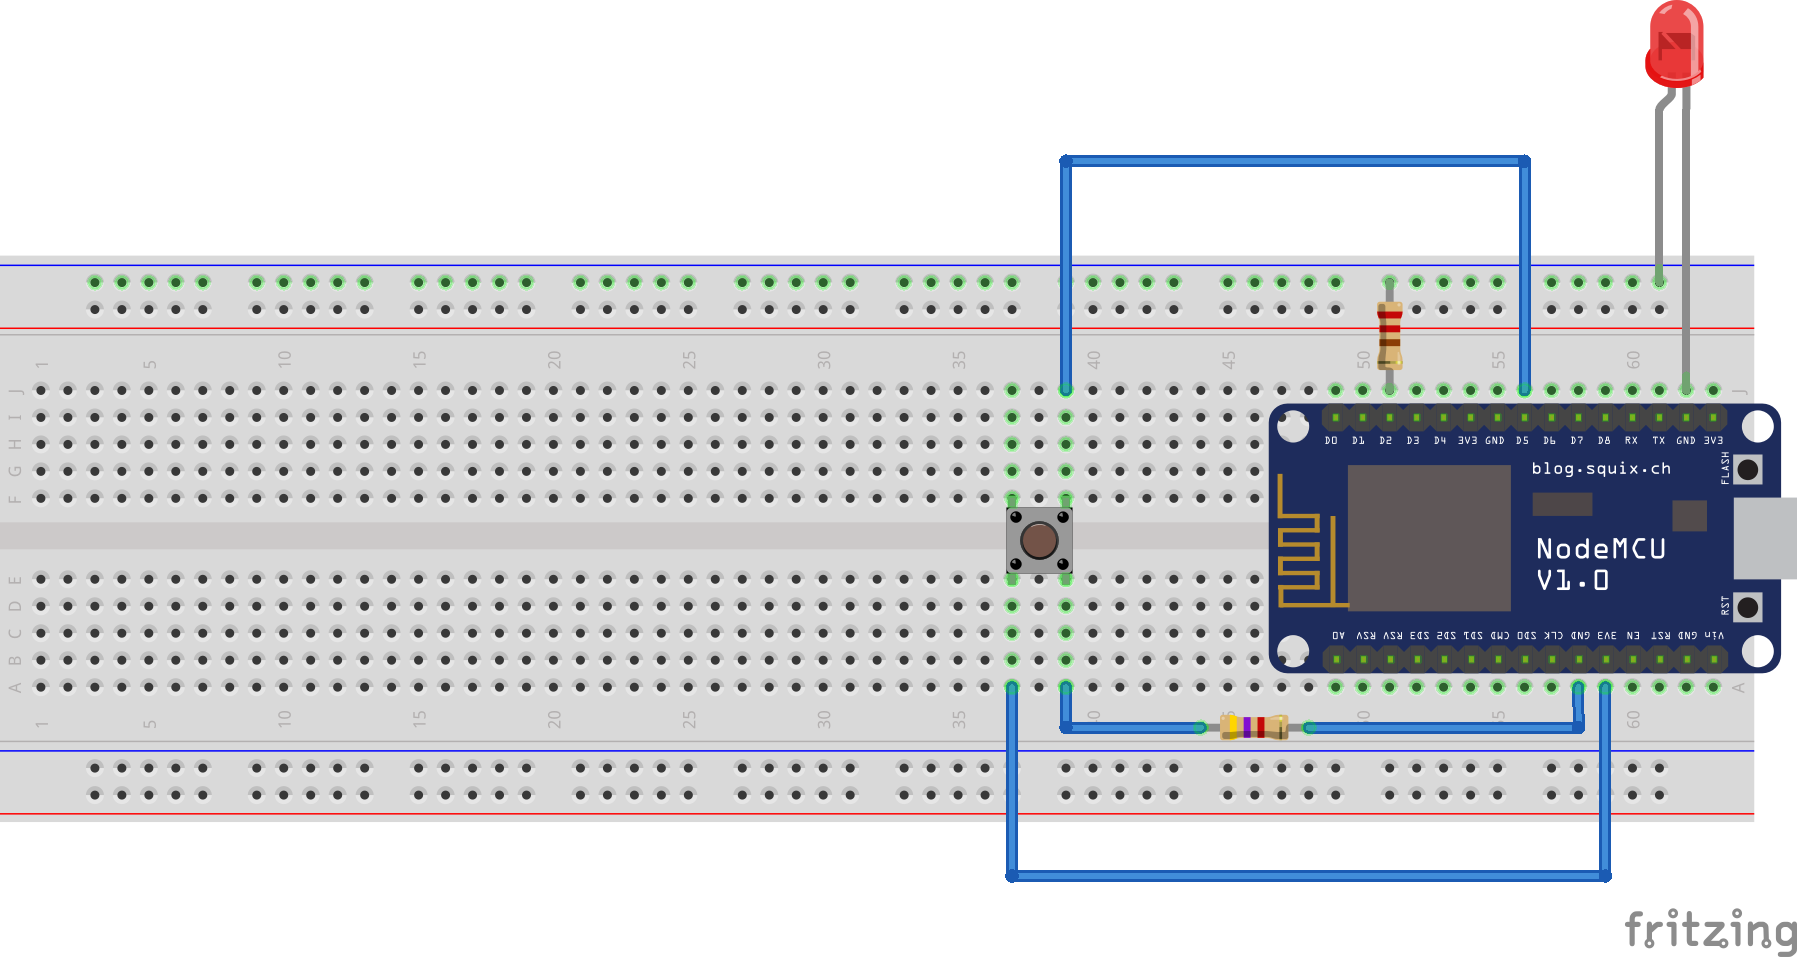
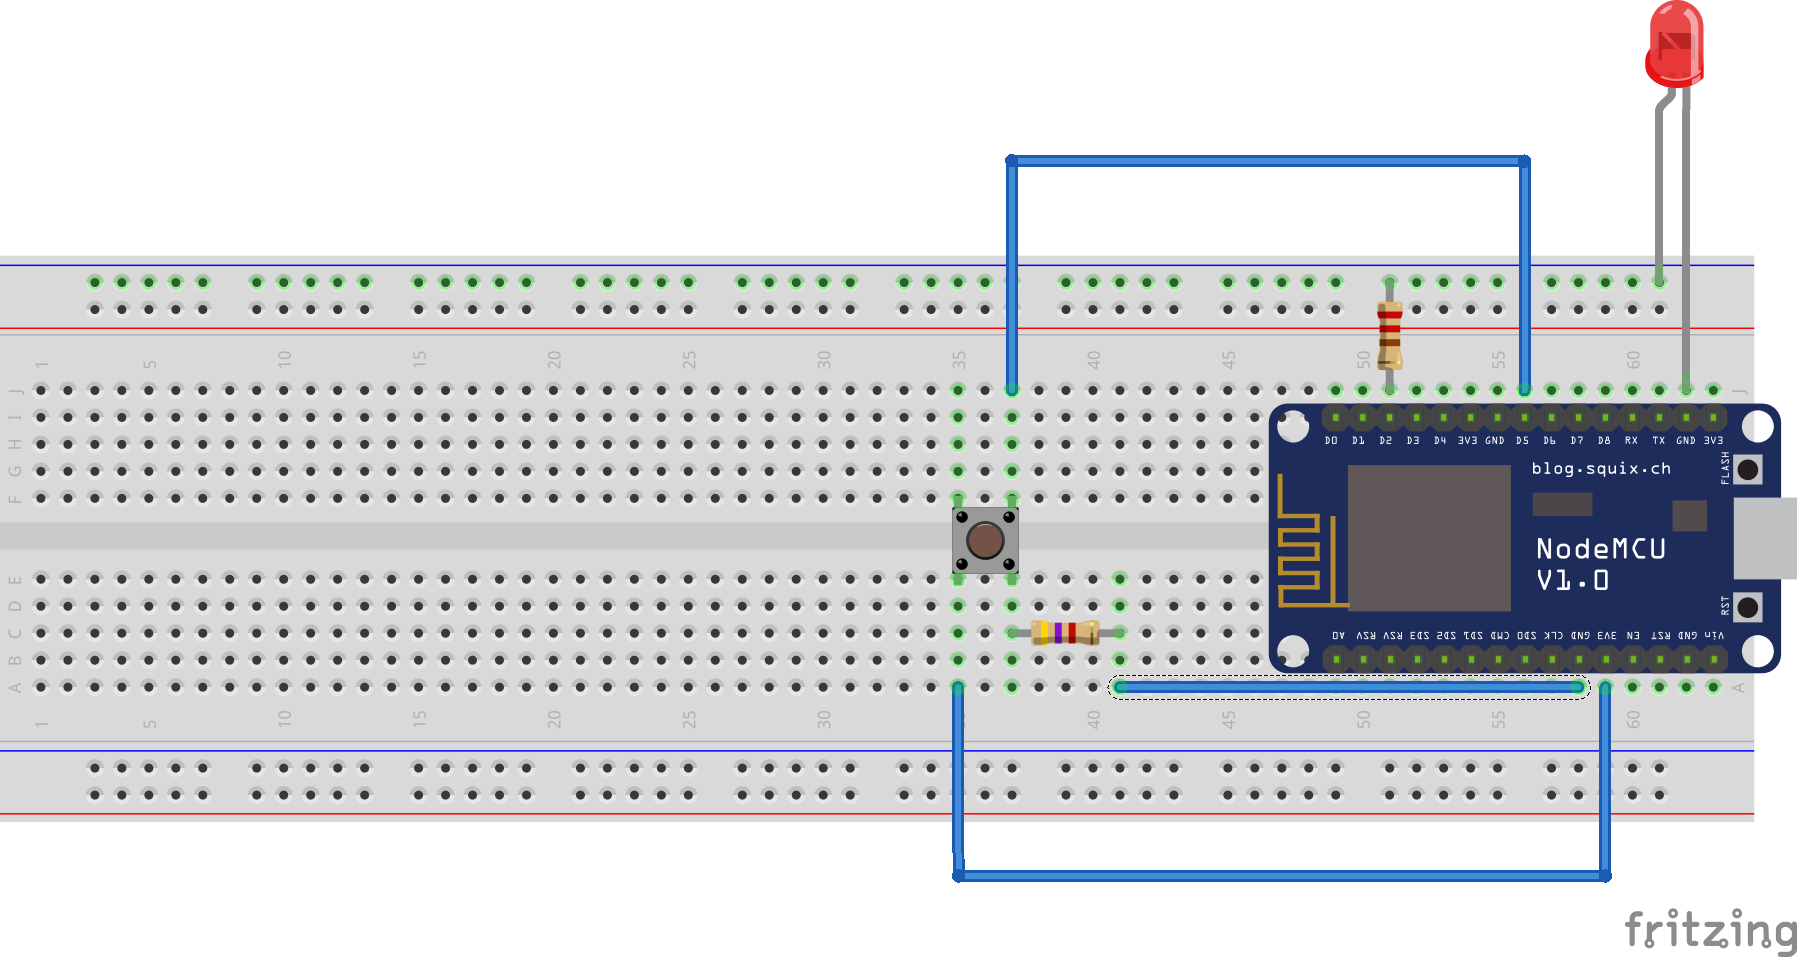
SW-2 - corrected mistakes

Changed region(s): [[0.5298, 0.1515, 0.9037, 0.9394]]

diff --git a/README.md b/README.md
@@ -45,17 +45,18 @@ What you need:
    ![alt text](screenshots/47kohmsResistor.PNG "Title Text")
 
 ## Part 3:
-###Hardware development
+### Hardware development
 
 Using the components you got in **part 2** build the following circuit
 
 ![alt text](screenshots/schematic.PNG "Title Text")
 
-- Push the micro-controller into the breadboard as shown in the image above, line up pin **D0** with **I49** and pin **Vin** with **B64** 
+- Push the micro-controller into the breadboard as shown in the image above, line up pin **D0** of the controller with **I49** of the breadboard and pin **Vin** of the controller with **B63** of the breadboard (push hard because its a tight fit) 
 - Place the 220 ohm resistor between pin **J51** on the bread board and the blue rail
 - Place the **long leg** of the LED in the blue rail and the **short** leg in pin **J62**
-- Align the button switch so that its fits between **E37** and **F39**
-- Place the 4.7 Kohm resistor between pins **A39** and **A58**
+- Align the button switch so that its fits between **E35** and **F37**
+- Place the 4.7 Kohm resistor between pins **C37** and **C41**
+- Place a jumper cable between pin **A41** and **A58**
 - Place a jumper cable between pin **A37** and **A59**
 - Place a jumper cable between pin **J39** and **J56**
 
@@ -102,24 +103,32 @@ The editor will look like this
 
 ![alt text](screenshots/ArduinoIDE.PNG "Title Text")
 
+If you want to understand the code a little more, spend some time reading the comments, or you can get straight to the task as fill in the correct variables
+
 Scroll through the code and enter in the correct details as described in the points below
-- For our device to connect to our server, we have to provide it with the Wi-Fi credentials and the server IP address. 
-Fill in the details as shown on the board
+- For our device to connect to our server, we have to provide it with the Wi-Fi credentials and the server IP address.
+Look for the variables called `ssid`, `password`, `mqtt_server`, enter the correct details in the speach marks.
+These will tell our device what wifi to connect to and the server we need to talk to in order to control our meeting room lights
+
 - Scroll down to the variable ``teamName`` and enter your teamName, This will tell your micro-controller who's light to control
 
 Our code should now be ready to compile and upload to the micro-controller.
 We need to tell out IDE what micro-controller we are using, to do this click on ``Tools > Board > NodeMCU 1.0 (ESP12-E Module)``.
 We also need to tell the IDE which USB port or communication(COM) port to use, since our computer has multiple USB ports we need to make sure we select the correct one.
-It will most likely by a number greater than 10, so now click on ``Tools > Port > `` and select an the COM port that you think is correct.
+Lets start by checking which ones are currently listed, do this by clicking on ``Tools > Port > `` and take a note of the numbers (before you take note, make sure your device is **NOT** plugged in).
+
+After taking note you may now plug in your device to a USB port and check the comport list again by clicking on ``Tools > Port > ``
+
+Did you see a new COM port? if yes click on that COM port, if not raise your hand and someone will try and help you.
 
 If you selected the correct COM port we should be ready to do the last step, click on the green arrow pointing to the right, if you hover over it, it should say ``Upload``.
 
 In the black window at the bottom of the IDE, you will now see some messages about the compilation and code upload. Once the upload is complete a message on the blue bar will say ``Done uploading`` and your micro-controller will now begin to work.
 
-##Part 4:
-###Testing
+## Part 4:
+### Testing
 To see what your micro-controller is doing, open the `Serial Monitor` by pressing the key `Ctrl+Shift+M`.
 
 If you click the button on your circuit, your LED will should turn on. 
-###Extra credit
+### Extra credit
 So now we can control our LED remotely. What can you change to your code to control another teams LED???
